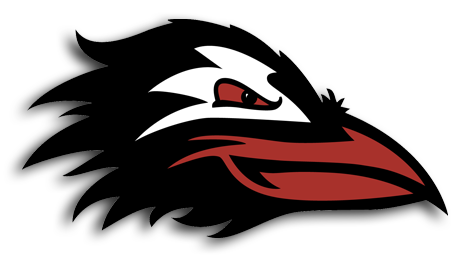
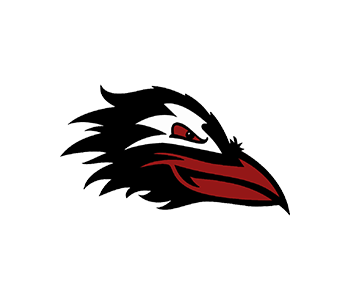
updated thing

diff --git a/index.html b/index.html
@@ -8,24 +8,24 @@
   <body>
     <h1>Keira Chang </h1>
     <p>A 10th grader at CCA</p>
-    <h2>Keira</h2>
+    <h2>"You miss 100% of the shots you don't take." – Wayne Gretzky</h2>
     <p></p>
     <h3>Early Life</h3>
     <p>I was born in Malaysia and moved here when I was three years old. My family originally planned to live in Hawaii, but eventually moved to San Diego. I went to elementary school at Olivenhain Pioneer Elementary School, but had to change schools right before 3rd grade because they were apparently full. Fourth through sixth grade was at El Camino Creek Elementary. Then, I moved on to middle school in 2022-2023 at Diegueno Middle School. Now, I’m a tenth grade student at Canyon Crest Academy. 
 <a href="https://cc.sduhsd.net/">This is the Canyon Crest website.  </a>    
-<img src= "images/CCA_raven.png" alt="ccaraven">
+<img src= "images/CCA_raven.png" alt="ccaraven" id="CCA_raven-img">
 </p>
 
     <h3>Hobbies</h3>
     <p>My hobbies include gymnastics, snowboarding, and baking. I also recently joined CCA’s dive team because I thought gymnastics would transfer well. I do competitive trampoline and tumbling at SoCal TTC, and was crowned national champion in 2024. I don’t get the opportunity to go snowboarding often, but I always enjoy it when I do. My favorite things to bake are cakes (especially the decorating part), cookies, and cupcakes. 
-      <a href="https://share.google/HwJBTpFtRmMTjzmvU">This is my favorite cookie recipe</a>  
-      <img src="images/cakeee.jpg" alt="cake">
+      <a href="https://share.google/HwJBTpFtRmMTjzmvU">This is my favorite cookie recipe.</a>  
+      <img src="images/cakeee.jpg" alt="cake" id="cake">
 </p>
 
     <h3>Family</h3>
     <p>I live with my dad, mom, and older brother. My brother is three years older than me, and is now in college. My dad does business, so he’s often on business trips. I love that my parents are always supportive of me whether it’s about academics or sports. Our favorite thing to do together is go on family road trips/vacations. My favorite trip we’ve been on is to Arizona, because we went on lots of hikes and also went camping. We also like visiting new restaurants and trying new cuisines. Overall, my family is the most important thing to me became they support and love me unconditionally. 
        <a href="https://en.wikipedia.org/wiki/Arizona">This is the wiki page of Arizona which is our favorite place to go.</a> 
-      <img src="images/family.jpg" alt="family">
+      <img src="images/family.jpg" alt="family" id="family-img">
 </p>
   </body>
 </html>

diff --git a/styles.css b/styles.css
@@ -5,11 +5,35 @@ body
 
 p{line-height: 2em;}
 
-img {
+#CCA_raven-img {
   width: 200px;
-  height: 200px;
-  float:left;
-  border:solid 2px #1b9d9d;
-  border-radius: 9px;
-  margin-right: 9px;
+  height: auto;
+  border-style:solid 2px #c8c8ff;
+  border-radius: 9px; 
+  margin-right: 15px;
+  margin-top: 2px;
+  margin-bottom: 4px;
+float: left}
+
+#family-img{
+   width: 200px;
+  height: auto;
+  border-style:solid 2px #c8c8ff;
+  border-radius: 9px; 
+  margin-right: 15px;
+  margin-top: 2px;
+  margin-bottom: 2px;
+float: left
+}
+
+
+#cake{
+   width: 200px;
+  height: auto;
+  border-style:solid 2px #c8c8ff;
+  border-radius: 9px; 
+  margin-right: 15px;
+  margin-top: 2px;
+  margin-bottom: 4px;
+float: left
 }
